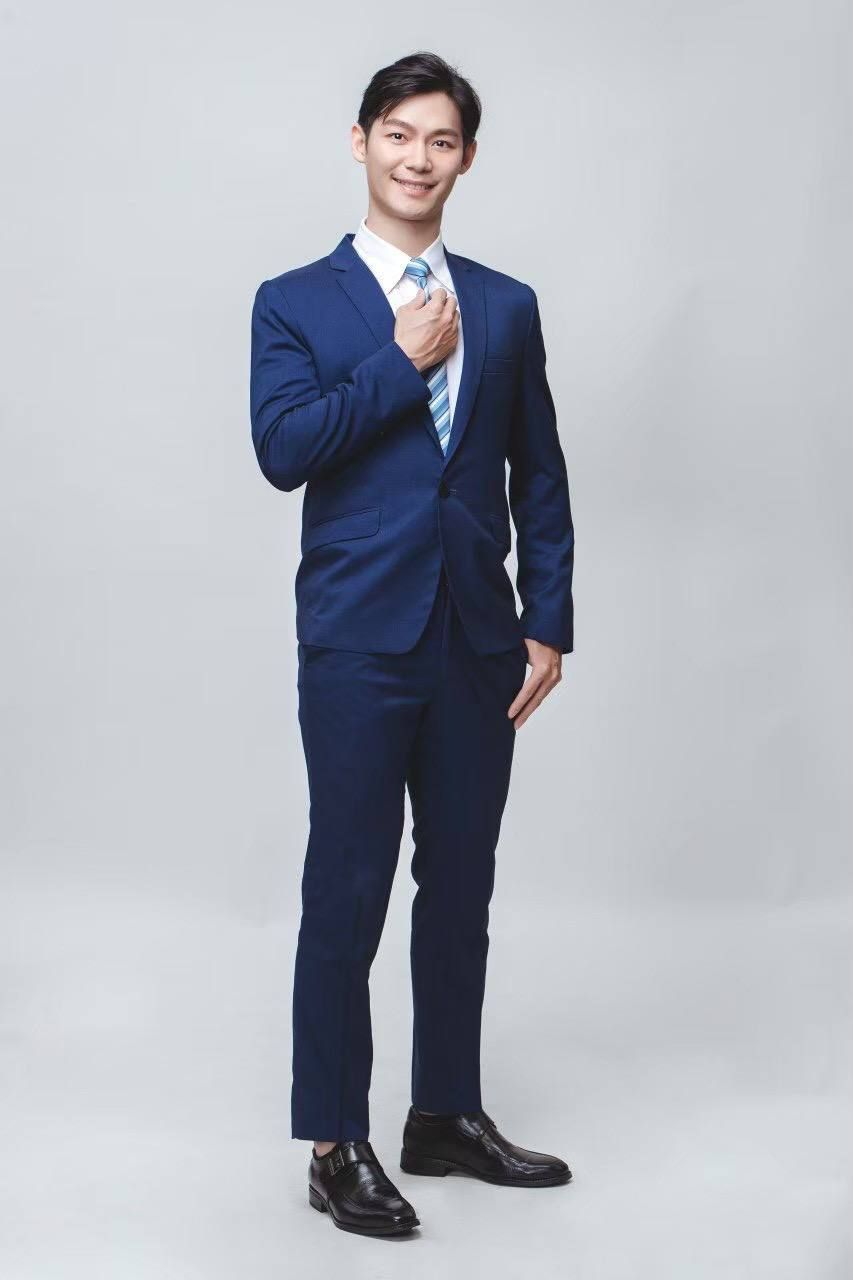
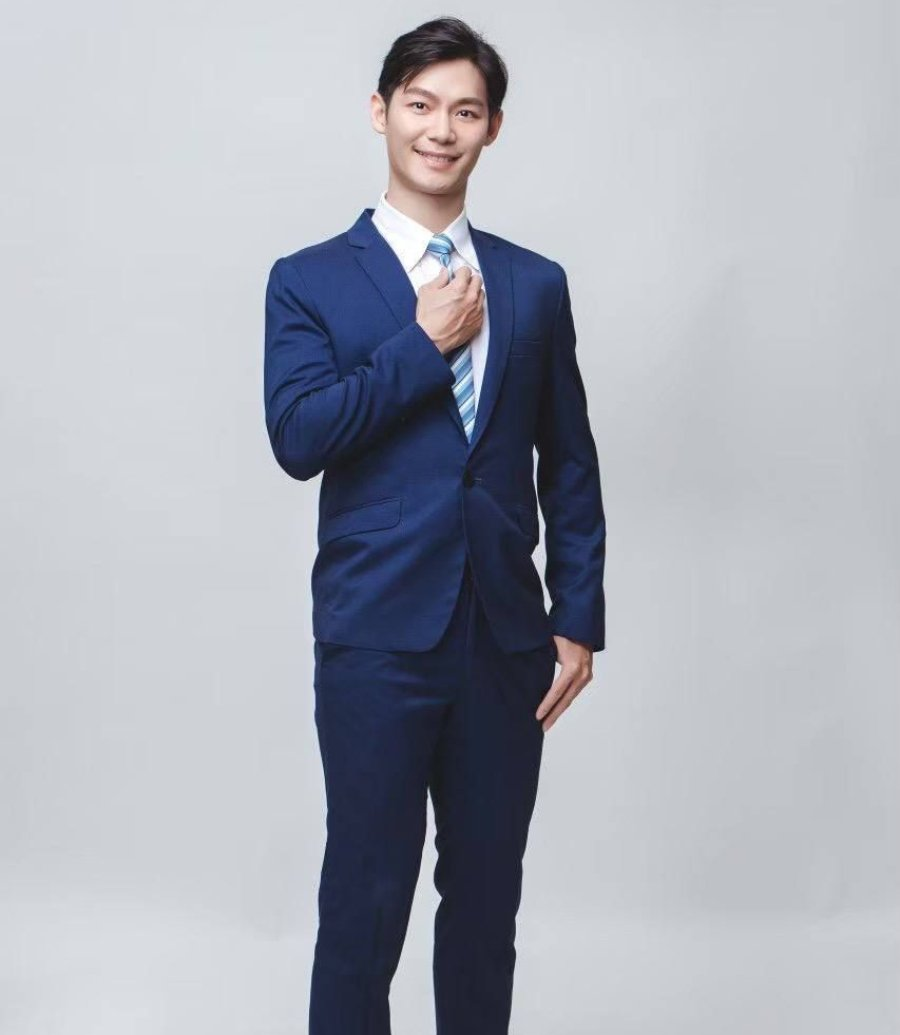
三位成員內嵌照片轉為實體圖檔,補齊分享預覽圖
- 鐘文成/陳子宸/邱俊華的照片從 data.js 內嵌 base64 抽出,存為 images/*_x.jpg
- data.js 瘦身約 250KB,重新解析驗證通過(93 位、0 內嵌、0 缺檔)
- 重建 m/ 預覽頁,三位的 og:image 改指本人照片

Claude-Session: https://claude.ai/code/session_017S1of9sdonvKopWKjP4QeR

Changed region(s): [[0.2743, 0.0, 0.6706, 1.0]]

diff --git a/m/g3_m7.html b/m/g3_m7.html
@@ -11,7 +11,7 @@
 <meta property="og:title" content="鐘文成｜國產羊肉批發">
 <meta property="og:description" content="服務項目：國產羊肉批發零售、活羊批發零售；適合引薦：火鍋餐廳(願意嘗試國產羊肉火鍋餐廳)、外燴團隊 (一隻全羊以上)、冷凍調理包代工廠(MOQ300斤)">
 <meta property="og:url" content="https://ivanzhong085.github.io/member-directory/m/g3_m7.html">
-<meta property="og:image" content="https://ivanzhong085.github.io/member-directory/og-image.png">
+<meta property="og:image" content="https://ivanzhong085.github.io/member-directory/images/g3_m7_x.jpg">
 <meta name="twitter:card" content="summary">
 <link rel="canonical" href="https://ivanzhong085.github.io/member-directory/#/member/g3_m7">
 <meta http-equiv="refresh" content="0;url=../index.html#/member/g3_m7">

diff --git a/m/g4_m2.html b/m/g4_m2.html
@@ -11,7 +11,7 @@
 <meta property="og:title" content="陳子宸｜喜喪禮品鮮花業">
 <meta property="og:description" content="服務項目：開幕盆景／鮮花禮盒、喪用蓮花塔／蘭花致意、罐頭塔／米塔；適合引薦：公司採購部  福利委員會、農產行老闆  常送禮客戶">
 <meta property="og:url" content="https://ivanzhong085.github.io/member-directory/m/g4_m2.html">
-<meta property="og:image" content="https://ivanzhong085.github.io/member-directory/og-image.png">
+<meta property="og:image" content="https://ivanzhong085.github.io/member-directory/images/g4_m2_x.jpg">
 <meta name="twitter:card" content="summary">
 <link rel="canonical" href="https://ivanzhong085.github.io/member-directory/#/member/g4_m2">
 <meta http-equiv="refresh" content="0;url=../index.html#/member/g4_m2">

diff --git a/m/g6_m8.html b/m/g6_m8.html
@@ -11,7 +11,7 @@
 <meta property="og:title" content="邱俊華｜企業債務整合">
 <meta property="og:description" content="服務項目：信貸、車貸、房土貸、企業貸款、財債務階梯式規劃；適合引薦：資金需求200萬以上的餐飲老闆；擁有1億以上不動產且急需資金企業負責人">
 <meta property="og:url" content="https://ivanzhong085.github.io/member-directory/m/g6_m8.html">
-<meta property="og:image" content="https://ivanzhong085.github.io/member-directory/og-image.png">
+<meta property="og:image" content="https://ivanzhong085.github.io/member-directory/images/g6_m8_x.jpg">
 <meta name="twitter:card" content="summary">
 <link rel="canonical" href="https://ivanzhong085.github.io/member-directory/#/member/g6_m8">
 <meta http-equiv="refresh" content="0;url=../index.html#/member/g6_m8">